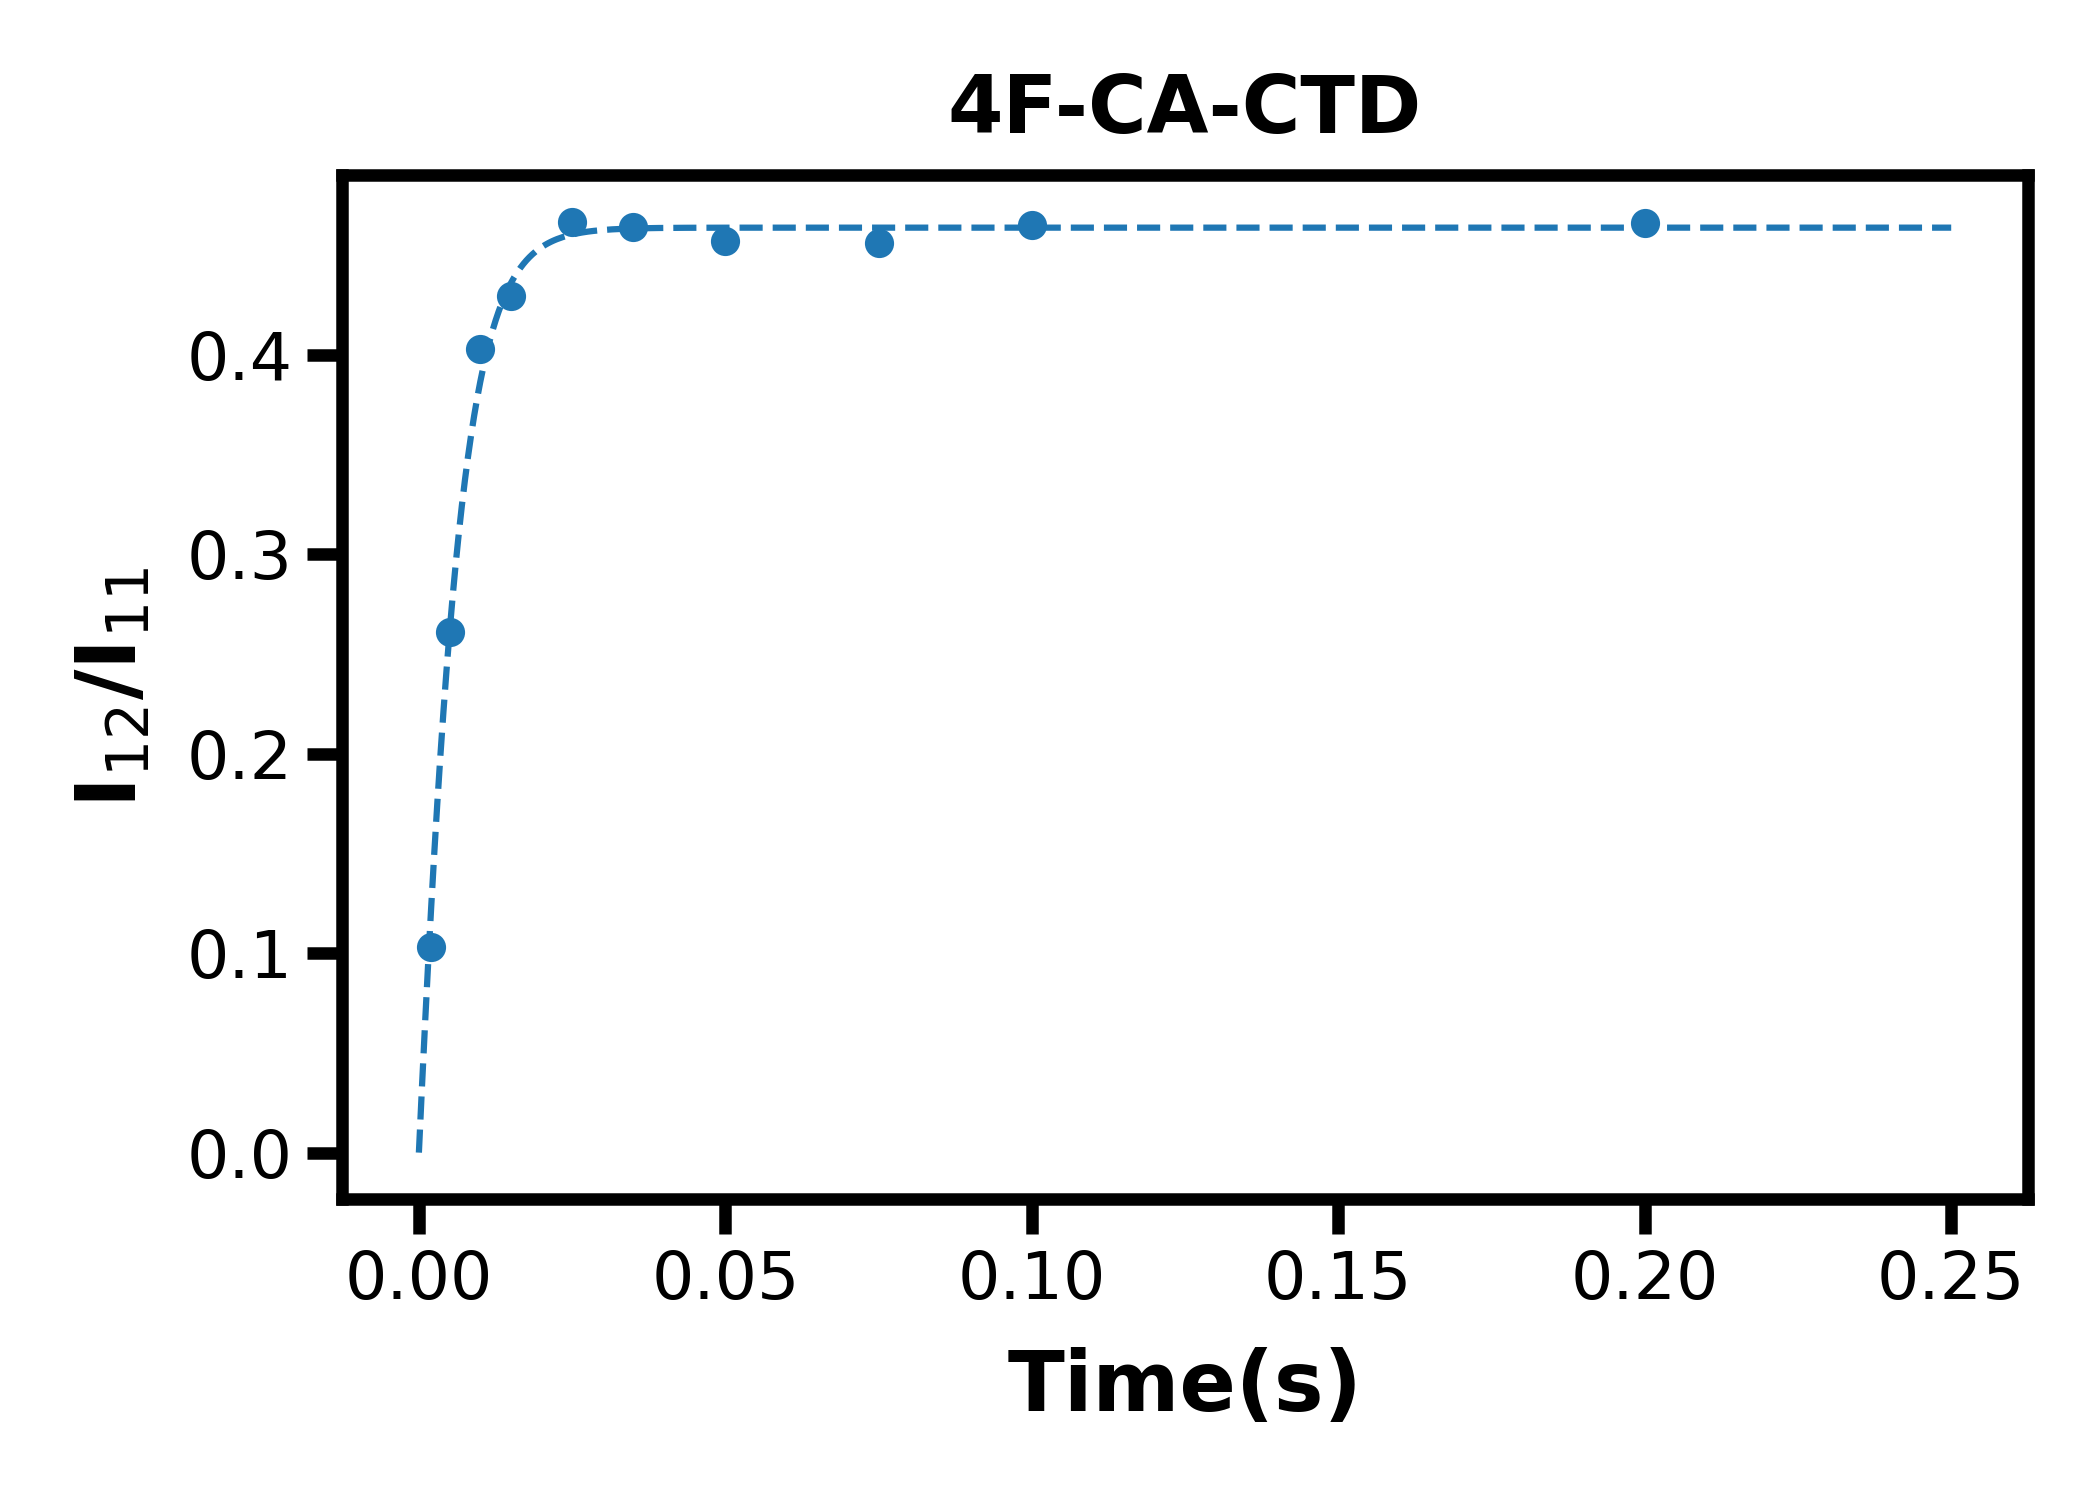
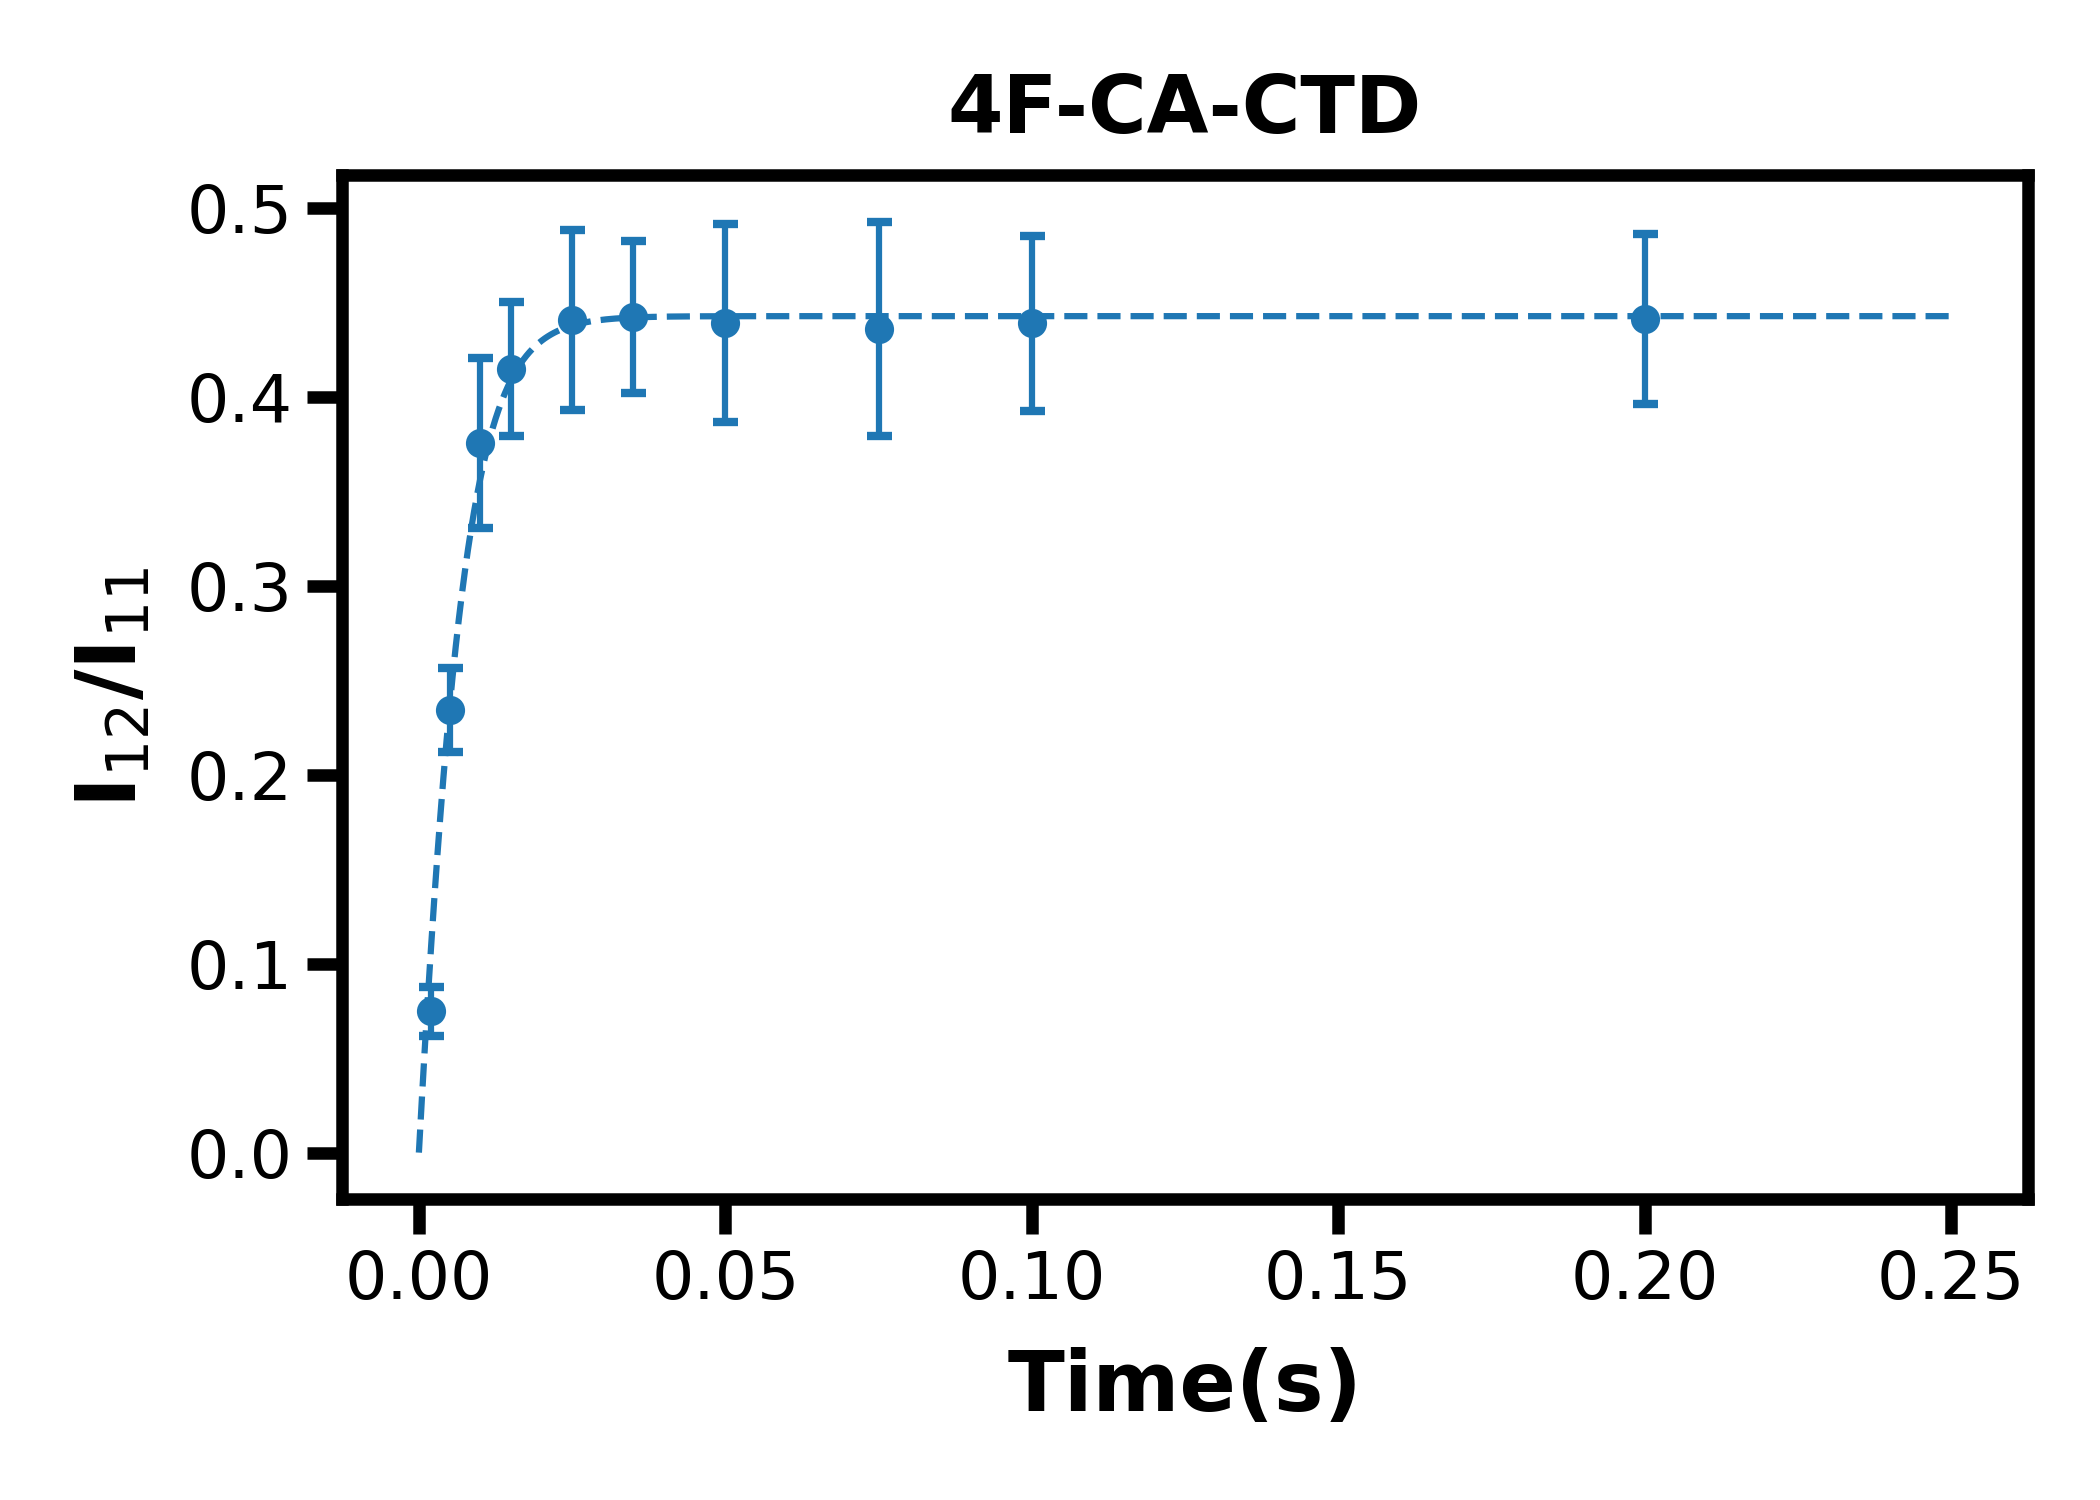
fixed peak positions for better/more consistent intensity ratios

diff --git a/ctd/2d_exsy_plot.py b/ctd/2d_exsy_plot.py
@@ -22,13 +22,13 @@ elif f_pos == "7F":
 # plot parameters
 cmap = matplotlib.cm.Blues_r    # contour map (colors to use for contours)
 # # 4F ideal
-contour_start = 500000           # contour level start value
-contour_num = 8                # number of contour levels
-contour_factor = 1.5          # scaling factor between contour levels
-# 7F ideal
-# contour_start = 1200000           # contour level start value
+# contour_start = 500000           # contour level start value
 # contour_num = 8                # number of contour levels
 # contour_factor = 1.5          # scaling factor between contour levels
+# 7F ideal
+contour_start = 1200000           # contour level start value
+contour_num = 8                # number of contour levels
+contour_factor = 1.5          # scaling factor between contour levels
 
 # calculate contour levels
 cl = contour_start * contour_factor ** np.arange(contour_num) 
@@ -66,8 +66,9 @@ def plot_exsy(path, ax=None, color="magenta", title="$^{19}$F-$^{19}$F EXSY"):
     # plot the contours (tranpose needed here?)
     # TODO: change extent to make x and y axes consistent?
     #ax.contour(data.T, cl, cmap=cmap, extent=(ppm_19fx_0, ppm_19fx_1, ppm_19fy_0, ppm_19fy_1))
-    ax.contour(data, cl, colors=color, extent=(ppm_19fx_0, ppm_19fx_1, ppm_19fy_0, ppm_19fy_1), 
-               linewidths=1)
+    # ax.contour(data, cl, colors=color, extent=(ppm_19fx_0, ppm_19fx_1, ppm_19fy_0, ppm_19fy_1), 
+    #            linewidths=1)
+    ax.contour(data, cl, colors=color, linewidths=1)
 
     # add grid at each x and y tick
     ax.grid(color='darkgrey', linestyle='-', linewidth=0.5)
@@ -78,12 +79,12 @@ def plot_exsy(path, ax=None, color="magenta", title="$^{19}$F-$^{19}$F EXSY"):
     ax.set_title(title)
     # ax.set_xlim(-126, -125.2)
     # ax.set_ylim(-130, -122)
-    ax.invert_xaxis()
-    ax.invert_yaxis()
+    #ax.invert_xaxis()
+    #ax.invert_yaxis()
 
 
 # fig, ax = plt.subplots()
-# plot_exsy(f"{f_path}/10/test.DAT", color="magenta", ax=ax)
+# plot_exsy(f"{f_path}/2/test.DAT", color="magenta", ax=ax)
 # fig.tight_layout()
 # plt.show()
 #fig.savefig(f"figures/{f_pos}_exsy.png", dpi=300, transparent=True)
@@ -179,27 +180,34 @@ def plot_iratios():
             cut = 450000
             lim = 0.6
             center = 297
+            # TODO: need to plot on spectrum to confirm peak position
+            loc_11 = (224, 1940)
+            loc_12 = (224, 2426)
         elif f_pos == "7F":
             i += 1
             cut = 1500000
             lim = 0.2
             center = 279
+            # TODO: need to plot on spectrum to confirm peak position
+            loc_11 = (188, 1810)
+            loc_12 = (188, 2401)
         # read in the data from a NMRPipe file
         dic, data = ng.pipe.read(f"{f_path}/{i}/test.DAT")
         peaks = ng.peakpick.pick(data, cut, cluster=False)
         #print(peaks)
 
         # peak D1 D1
-        loc11_x = int(peaks[0][0])
-        loc11_y = int(peaks[0][1])
-
-        # peak D1 D2
-        loc12_x = int(peaks[1][0])
-        loc12_y = int(peaks[1][1])
+        # loc11_x = int(peaks[0][0])
+        # loc11_y = int(peaks[0][1])
+        # # peak D1 D2
+        # loc12_x = int(peaks[1][0])
+        # loc12_y = int(peaks[1][1])
 
         # extracting intensity from array
-        i11 = data[loc11_x, loc11_y]
-        i12 = data[loc12_x, loc12_y]
+        # i11 = data[loc11_x, loc11_y]
+        # i12 = data[loc12_x, loc12_y]
+        i11 = data[loc_11[0], loc_11[1]]
+        i12 = data[loc_12[0], loc_12[1]]
 
         # diagonal auto peak (TODO)
         #diag2_x = int(peaks[diag_pos][0])

diff --git a/ctd/fit_exsy.py b/ctd/fit_exsy.py
@@ -13,7 +13,7 @@ import scipy.optimize
 plt.style.use("/Users/darian/github/wedap/wedap/styles/default.mplstyle")
 
 # 4F or 7F
-f_pos = "7F"
+f_pos = "4F"
 print(f"CTD-{f_pos}:")
 
 # import intensity ratio dataset (I_12 / I_11)
@@ -81,5 +81,5 @@ def plot_fitted_curve(ax):
 plot_fitted_curve(ax)
 
 fig.tight_layout()
-#fig.savefig(f"figures/fit_exsy_{f_pos}.png", dpi=300, transparent=True)
+fig.savefig(f"figures/fit_exsy_{f_pos}.png", dpi=300, transparent=True)
 plt.show()
